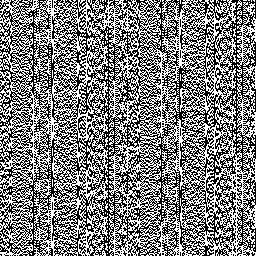
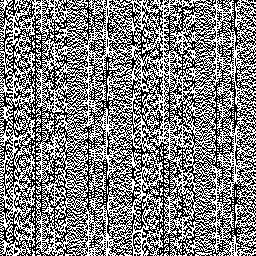
added splittablerandom

diff --git a/src/main/java/com/example/RandImg.java b/src/main/java/com/example/RandImg.java
@@ -7,25 +7,34 @@ import java.io.IOException;
 import java.security.NoSuchAlgorithmException;
 import java.security.SecureRandom;
 import java.util.Random;
+import java.util.SplittableRandom;
 import java.util.concurrent.ThreadLocalRandom;
+import java.util.function.Supplier;
 
 public class RandImg {
     public static void main(String[] args) throws IOException, NoSuchAlgorithmException {
-        report("Random", new Random());
-        report("ThreadLocalRandom", ThreadLocalRandom.current());
-        report("SecureRandom", SecureRandom.getInstance("NativePRNGNonBlocking"));
+        report(new Random());
+        report(ThreadLocalRandom.current());
+        report(SecureRandom.getInstance("NativePRNGNonBlocking"));
+
+        SplittableRandom splittableRandom = new SplittableRandom();
+        report("SplittableRandom", splittableRandom::nextInt);
     }
 
-    private static void report(String name, Random random) throws IOException {
+    private static void report(Random random) throws IOException {
+        report(random.getClass().getSimpleName(), random::nextInt);
+    }
+
+    private static void report(String name, Supplier<Integer> random) throws IOException {
         BufferedImage bimg = new BufferedImage(256, 256,
                 BufferedImage.TYPE_BYTE_BINARY);
         int w = bimg.getWidth();
         for (int y = 0; y < bimg.getHeight(); y++) {
             for (int x = 0; x < w; x++) {
-                int bit = random.nextInt() & 1;
+                int bit = random.get() & 1;
                 bimg.setRGB(x, y, (bit == 0) ? 0 : 0xffffff);
             }
         }
-        ImageIO.write(bimg, "png", new File("out-" + random.getClass().getSimpleName() + ".png"));
+        ImageIO.write(bimg, "png", new File("out-" + name + ".png"));
     }
 }
